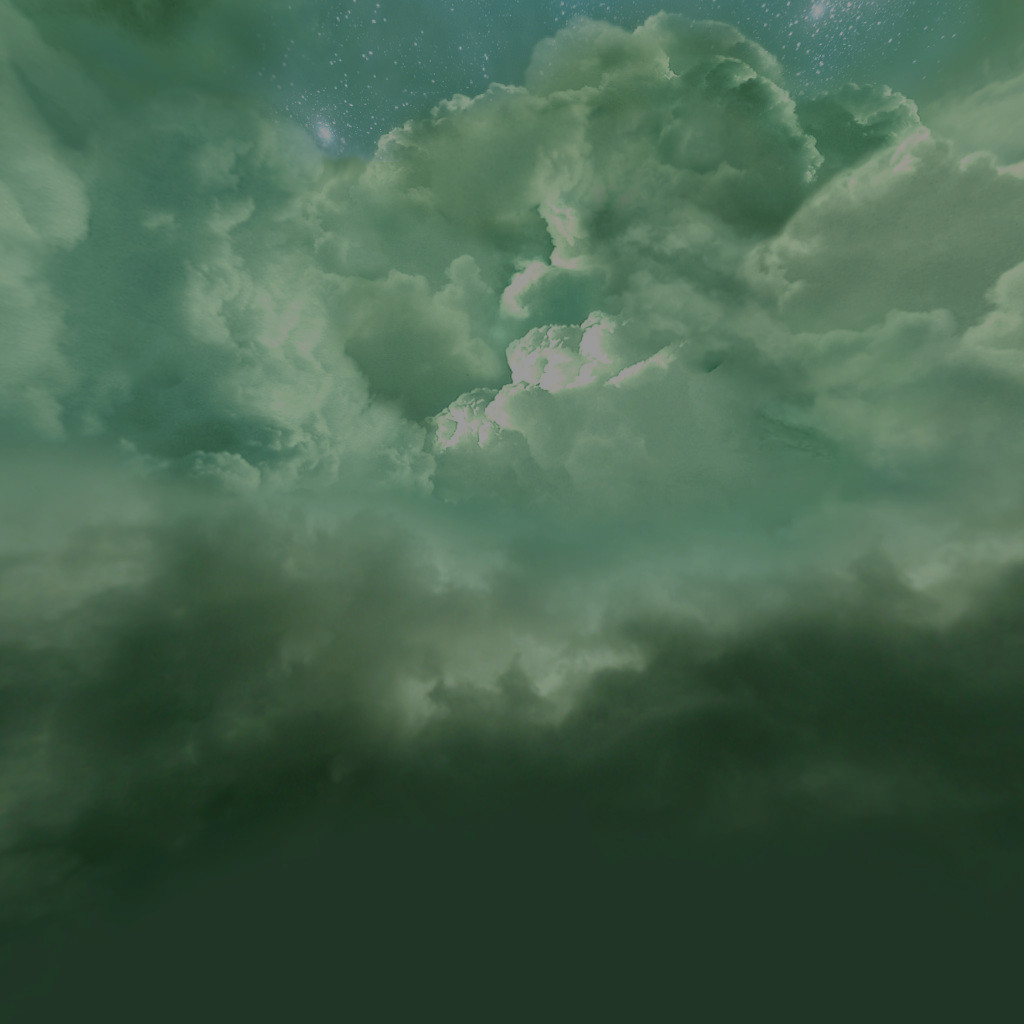
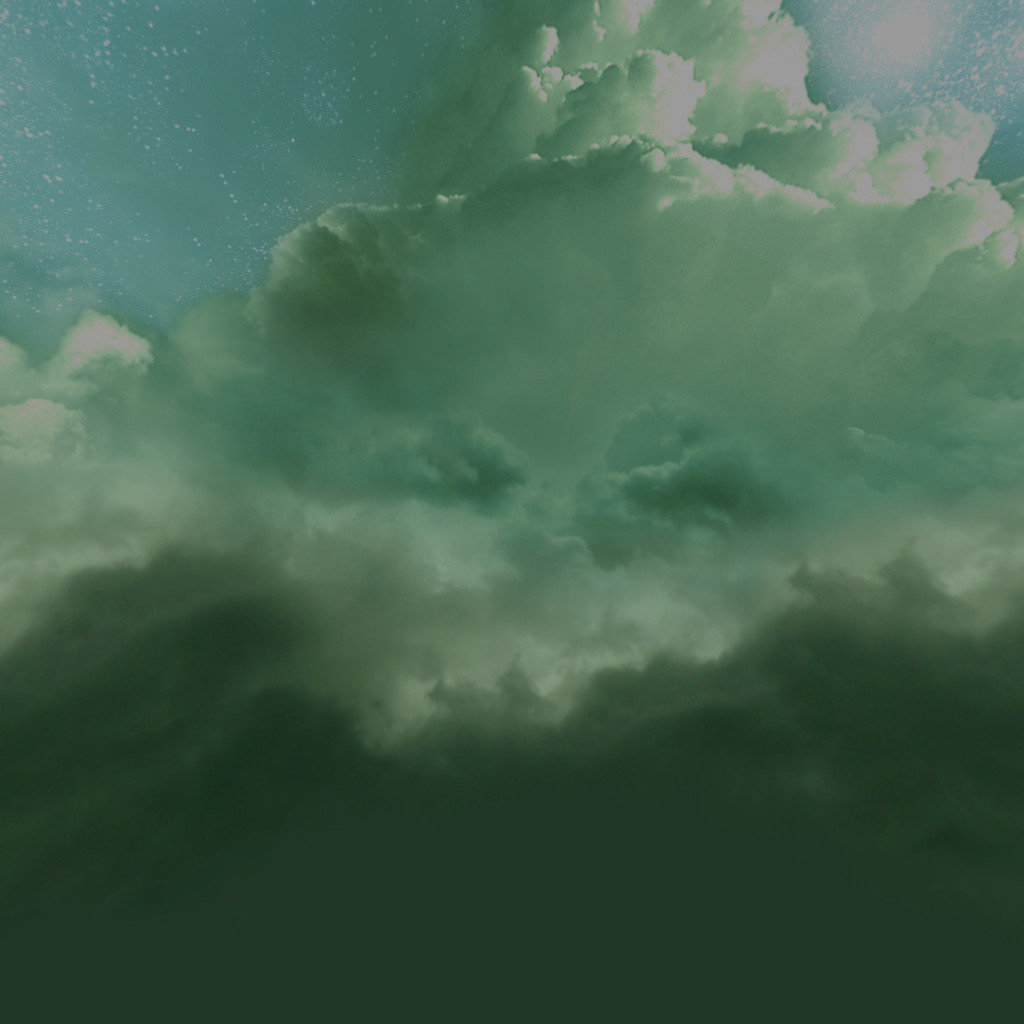
Added Day/Night cycle with mix between Day & Night skyboxes

diff --git a/src/module/SkyboxModule.cpp b/src/module/SkyboxModule.cpp
@@ -3,44 +3,64 @@
 
 int SkyboxModule::init()
 {
+    // Init shader for Day/Night cycle
+    video::IGPUProgrammingServices* GPUProgrammingServices = driver->getGPUProgrammingServices();
+    _shader = GPUProgrammingServices->addHighLevelShaderMaterialFromFiles(
+        RESOURCES_PATH "/shaders/skybox_vs.glsl", "main", video::EVST_VS_1_1,
+        RESOURCES_PATH "/shaders/skybox_fs.glsl", "main", video::EPST_PS_1_1,
+        this);
+
     // Create all pair Day/Night Skyboxes for all weathers
-    scene::ISceneNode * day = createSkybox(RESOURCES_PATH "/Day/day");
-	scene::ISceneNode * night = createSkybox(RESOURCES_PATH "/Night/night");
-    _skyboxes[AWeather::E_WEATHER::NONE] = std::make_pair(day, night);
+    createSkyboxesPair(AWeather::E_WEATHER::NONE, "/Day/day", "/Night/night");
+    createSkyboxesPair(AWeather::E_WEATHER::RAIN, "/Rain_Day/rainDay", "/Rain_Night/rainNight");
+    createSkyboxesPair(AWeather::E_WEATHER::SNOW, "/Snow_Day/snowDay", "/Snow_Night/snowNight");
 
-    day = createSkybox(RESOURCES_PATH "/Rain_Day/rainDay");
-    night = createSkybox(RESOURCES_PATH "/Rain_Night/rainNight");
-    _skyboxes[AWeather::E_WEATHER::RAIN] = std::make_pair(day, night);
-
-    day = createSkybox(RESOURCES_PATH "/Snow_Day/snowDay");
-    night = createSkybox(RESOURCES_PATH "/Snow_Night/snowNight");
-    _skyboxes[AWeather::E_WEATHER::SNOW] = std::make_pair(day, night);
-
+    // Set current active Skybox
     _active = _skyboxes[_weather].first;
     _active->setVisible(true);
 
+    // Init timer
+    _timer = device->getTimer();
+
 	return 0;
+}
+
+
+void SkyboxModule::createSkyboxesPair(AWeather::E_WEATHER w, const std::string & pathDay, const std::string & pathNight)
+{
+    // Create Day and Night Skybox
+    scene::ISceneNode * day = createSkybox(pathDay);
+    scene::ISceneNode * night = createSkybox(pathNight);
+
+    // Create new Texture layer with the opposite time Skybox.
+    // Used by the shader to mix Day & Night Skybox depending on the time
+    // Would be easier if irrlicht supported CubeMapping...
+    for (u32 i = 0; i < day->getMaterialCount(); ++i)
+    {
+        day->getMaterial(i).setTexture(1, night->getMaterial(i).getTexture(0));
+        night->getMaterial(i).setTexture(1, day->getMaterial(i).getTexture(0));
+    }
+
+    // Create Day/Night pair for Weather w
+    _skyboxes[w] = std::make_pair(day, night);
 }
 
 scene::ISceneNode * SkyboxModule::createSkybox(const std::string & path)
 {
     scene::ISceneNode * skybox = smgr->addSkyBoxSceneNode(
-        driver->getTexture((path + "_up.jpg").c_str()),
-        driver->getTexture((path + "_dn.jpg").c_str()),
-        driver->getTexture((path + "_lf.jpg").c_str()),
-        driver->getTexture((path + "_rt.jpg").c_str()),
-        driver->getTexture((path + "_ft.jpg").c_str()),
-        driver->getTexture((path + "_bk.jpg").c_str()));
+        driver->getTexture((RESOURCES_PATH + path + "_up.jpg").c_str()),
+        driver->getTexture((RESOURCES_PATH + path + "_dn.jpg").c_str()),
+        driver->getTexture((RESOURCES_PATH + path + "_lf.jpg").c_str()),
+        driver->getTexture((RESOURCES_PATH + path + "_rt.jpg").c_str()),
+        driver->getTexture((RESOURCES_PATH + path + "_ft.jpg").c_str()),
+        driver->getTexture((RESOURCES_PATH + path + "_bk.jpg").c_str()));
     skybox->setVisible(false);
+
+    skybox->setMaterialType((video::E_MATERIAL_TYPE)_shader);
 
     return skybox;
 }
 
-int SkyboxModule::update()
-{
-	//nothing to do
-	return 0;
-}
 
 void SkyboxModule::setSkybox(bool night, int weather)
 {
@@ -54,4 +74,64 @@ void SkyboxModule::setSkybox(bool night, int weather)
         _active = _skyboxes[_weather].second;
 
     _active->setVisible(true);
+}
+
+void SkyboxModule::OnSetConstants(video::IMaterialRendererServices* services, s32 userData)
+{
+    // Get variables for ModelViewProjection matrix
+    core::matrix4 projection = driver->getTransform(video::ETS_PROJECTION);
+    core::matrix4 view = driver->getTransform(video::ETS_VIEW);
+    core::matrix4 model = driver->getTransform(video::ETS_WORLD);
+
+    // Create MVP
+    core::matrix4 ModViewProj = projection;
+    ModViewProj *= view;
+    ModViewProj *= model;
+
+    // Send MVP to shader
+    services->setVertexShaderConstant("ModViewProj", ModViewProj.pointer(), 16);
+
+    // Send Textures to shader
+    int var0 = 0;
+    int var1 = 1;
+    services->setPixelShaderConstant("texture_skybox1", &var0, 1);
+    services->setPixelShaderConstant("texture_skybox2", &var1, 1);
+
+    // Send mixFactor to shader
+    services->setPixelShaderConstant("mixFactor", &_mixFactor, 1);
+}
+
+
+int SkyboxModule::update()
+{
+    // Get elapsedTime
+    irr::u32 time = _timer->getTime();
+    float elapsedTime = (time - _lastTime) / 1000.0f;
+    _lastTime = time;
+    time %= (int)(TIME_OF_DAY * 60 * 1000);
+
+    // Calc rotation speed for a TIME_OF_DAY(min) Day/Night cycle
+    float angle = 360.0f / (TIME_OF_DAY * 60);
+    float speed = angle * elapsedTime;
+
+    // Update skybox rotation
+    irr::core::vector3df rot = _active->getRotation();
+    rot.Y -= speed;
+    _active->setRotation(rot);
+
+    // Stuff to mix Skyboxes depending on time
+    _mixFactor = 0;
+    // Dawn start
+    if (time >= DAWN_START * 60 * 1000)
+        _mixFactor = (TIME_OF_DAY * 60 * 1000 - time) /
+                     (TIME_OF_DAY * 60 * 1000 - DAWN_START * 60 * 1000);
+    // Twilight end / Night start
+    else if (time >= NIGHT_START * 60 * 1000)
+        _mixFactor = 1;
+    // Twilight start
+    else if (time >= TWILIGHT_START * 60 * 1000)
+        _mixFactor = (time - TWILIGHT_START * 60 * 1000) /
+                     (NIGHT_START * 60 * 1000 - TWILIGHT_START * 60 * 1000);
+ 
+    return 0;
 }

diff --git a/include/module/SkyboxModule.h b/include/module/SkyboxModule.h
@@ -5,7 +5,7 @@
 #include <map>
 
 
-class SkyboxModule : public AModule
+class SkyboxModule : public AModule, video::IShaderConstantSetCallBack
 {
 public:
     SkyboxModule(IrrlichtDevice* _device,
@@ -13,7 +13,10 @@ public:
         : AModule(_device, _camera),
         _active(nullptr),
         _weather(AWeather::E_WEATHER::NONE),
-        _night(false)
+        _night(false),
+        _timer(nullptr),
+        _lastTime(0),
+        _mixFactor(0)
 	{
 	}
 	~SkyboxModule()
@@ -25,18 +28,28 @@ public:
 
     void setSkybox(bool night, int weather);
 
-    inline bool  night() const
-    { return _night; }
+    irr::s32 _shader;
+    virtual void OnSetConstants(video::IMaterialRendererServices* services, s32 userData);
 
 private:
+    void createSkyboxesPair(AWeather::E_WEATHER w, const std::string & pathDay, const std::string & pathNight);
     scene::ISceneNode * createSkybox(const std::string & path);
 
 private:
     // Current active skybox
     scene::ISceneNode * _active;
     AWeather::E_WEATHER _weather;
-	bool		        _night;
+	bool                _night;
+
+    irr::ITimer * _timer;
+    irr::u32      _lastTime;
+    float         _mixFactor;
 
     std::map<AWeather::E_WEATHER,
              std::pair<scene::ISceneNode *, scene::ISceneNode *>>   _skyboxes;
+
+    #define     TIME_OF_DAY     1.0f                // Real time for one day (in min)
+    #define     TWILIGHT_START  TIME_OF_DAY * 0.5
+    #define     NIGHT_START     TIME_OF_DAY * 0.575
+    #define     DAWN_START      TIME_OF_DAY * 0.925
 };
